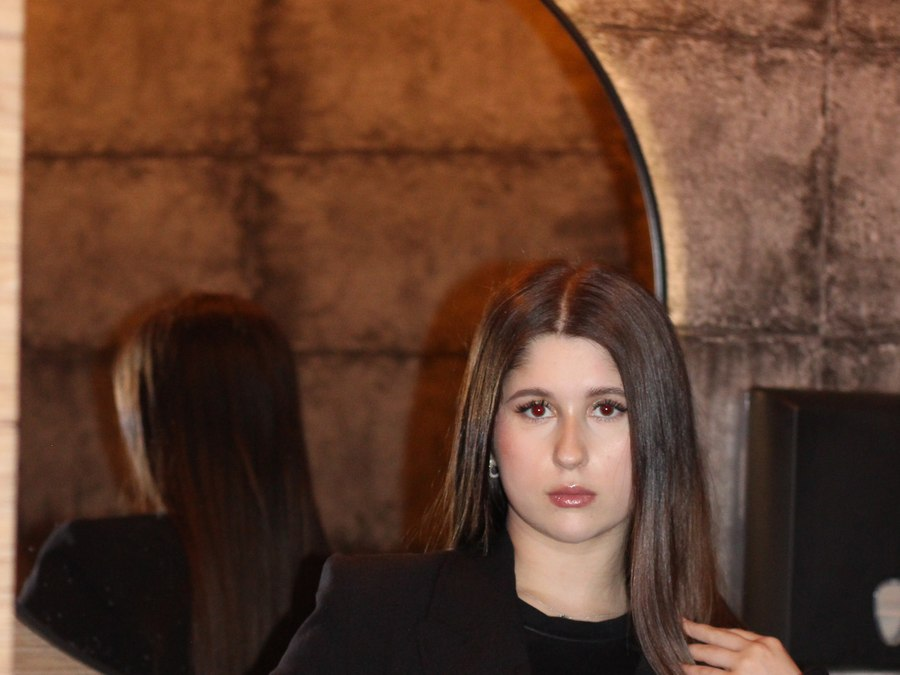
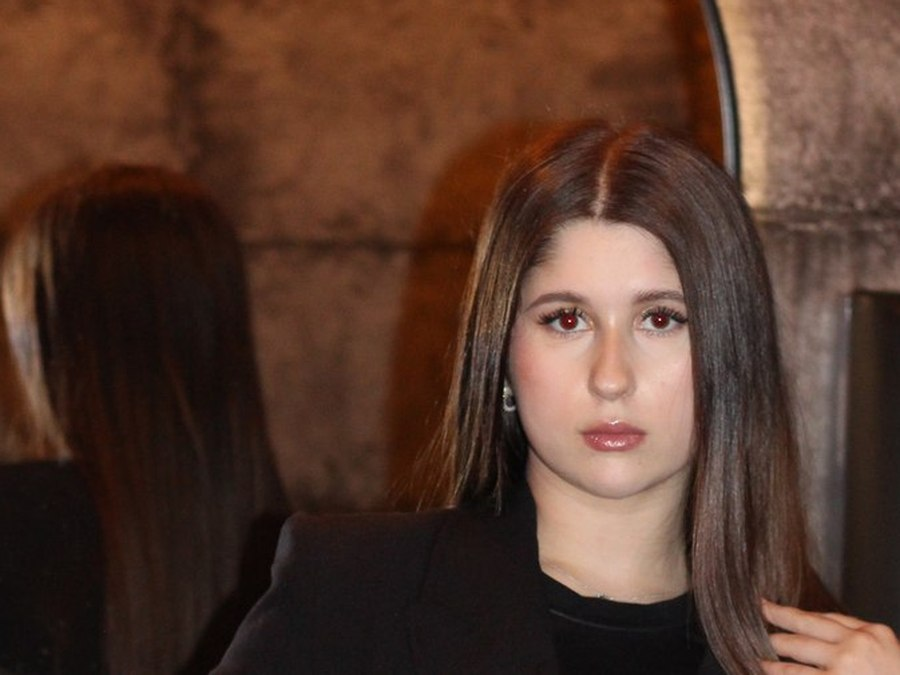
Case cards: real TikTok links, even text length, crop Vika higher
- Add real profile links for all three girls' "Open profile" buttons
  (Ruteniia, Liza, Vika)
- Remove the flavor tag badges (New opportunities / Steady growth /
  A bright story) overlaid on the photos, per request
- Trim Rutenia's description down to match the other two cards'
  text length
- Re-crop Vika's photo higher so her face isn't lost in the empty
  archway space above her head

diff --git a/index.html b/index.html
@@ -423,13 +423,6 @@
   }
   .case-photo{position:relative;width:100%;aspect-ratio:4/3;overflow:hidden;flex-shrink:0;background:var(--bg-1);}
   .case-photo img{width:100%;height:100%;object-fit:cover;object-position:50% 24%;display:block;}
-  .case-tag{
-    position:absolute;top:14px;right:14px;z-index:2;
-    display:inline-flex;align-items:center;gap:6px;padding:6px 12px;border-radius:100px;
-    background:rgba(20,12,20,.55);backdrop-filter:blur(6px);border:1px solid rgba(255,255,255,.18);
-    font-size:0.7rem;font-weight:600;letter-spacing:.04em;text-transform:uppercase;color:#fff;
-  }
-  .case-tag svg{width:13px;height:13px;color:var(--magenta);flex-shrink:0;}
   .case-body{display:flex;flex-direction:column;flex:1;padding:22px;}
   .case-name{font-family:'Unbounded',sans-serif;font-size:1.12rem;font-weight:700;color:var(--text-0);margin-bottom:12px;}
   .case-stats{display:flex;flex-wrap:wrap;gap:8px;margin-bottom:16px;}
@@ -750,21 +743,19 @@
         <div class="case-card" id="caseCard1">
           <div class="case-photo">
             <img src="assets/case-rutenia.jpg" alt="Рутенія">
-            <span class="case-tag"><svg viewBox="0 0 24 24" fill="currentColor" aria-hidden="true"><path d="M12 2c.9 3.6 2.1 4.8 5.7 5.7-3.6.9-4.8 2.1-5.7 5.7-.9-3.6-2.1-4.8-5.7-5.7C9.9 6.8 11.1 5.6 12 2Z"/></svg><span data-i18n="case_flavor_1">Нові можливості</span></span>
           </div>
           <div class="case-body">
             <h3 class="case-name" data-i18n="case_name_1">Рутенія</h3>
             <div class="case-stats">
               <span class="case-stat is-earn"><svg viewBox="0 0 24 24" fill="none" stroke="currentColor" stroke-width="1.5" aria-hidden="true"><circle cx="12" cy="12" r="10"/><path d="M16 8h-6a2 2 0 1 0 0 4h4a2 2 0 1 1 0 4H8"/><path d="M12 18V6"/></svg><span data-i18n="case_tag_1">$5000+/міс</span></span>
             </div>
-            <p class="case-detail" data-i18n="case_desc_1">Ще у квітні ми знайшли одна одну на сайті пошуку роботи. 👀 Вона шукала вакансію баристи, а ми — дівчат, у яких горять очі пробувати щось нове.<br><br>Вже у травні її результат — $5000+ 💸<br><br>Це не про «легкі гроші» чи випадковість. Це про ефіри, стабільність, особистий розвиток, роботу над помилками, емоції, спілкування з аудиторією та підтримку команди поруч. 🤍</p>
-            <a class="case-profile-btn" href="#" target="_blank" rel="noopener"><svg viewBox="0 0 24 24" fill="currentColor" aria-hidden="true"><path d="M16.7 3h-3.3v12.4a2.9 2.9 0 1 1-2.1-2.8v-3.3a6.2 6.2 0 1 0 5.4 6.2V9.6a7.6 7.6 0 0 0 4.3 1.3V7.6a4.3 4.3 0 0 1-4.3-4.3Z"/></svg><span data-i18n="case_profile_btn">Відкрити профіль</span></a>
+            <p class="case-detail" data-i18n="case_desc_1">Ще у квітні ми знайшли одна одну на сайті пошуку роботи. 👀 Вона шукала вакансію баристи, а ми — дівчат, у яких горять очі пробувати щось нове.<br><br>Вже у травні її результат — $5000+ 💸 Це про ефіри, стабільність і підтримку команди поруч. 🤍</p>
+            <a class="case-profile-btn" href="https://www.tiktok.com/@ruteniiaxo" target="_blank" rel="noopener"><svg viewBox="0 0 24 24" fill="currentColor" aria-hidden="true"><path d="M16.7 3h-3.3v12.4a2.9 2.9 0 1 1-2.1-2.8v-3.3a6.2 6.2 0 1 0 5.4 6.2V9.6a7.6 7.6 0 0 0 4.3 1.3V7.6a4.3 4.3 0 0 1-4.3-4.3Z"/></svg><span data-i18n="case_profile_btn">Відкрити профіль</span></a>
           </div>
         </div>
         <div class="case-card" id="caseCard2">
           <div class="case-photo">
             <img src="assets/case-liza.jpg" alt="Ліза">
-            <span class="case-tag"><svg viewBox="0 0 24 24" fill="currentColor" aria-hidden="true"><path d="M12 2c.9 3.6 2.1 4.8 5.7 5.7-3.6.9-4.8 2.1-5.7 5.7-.9-3.6-2.1-4.8-5.7-5.7C9.9 6.8 11.1 5.6 12 2Z"/></svg><span data-i18n="case_flavor_2">Стабільний ріст</span></span>
           </div>
           <div class="case-body">
             <h3 class="case-name" data-i18n="case_name_2">Ліза</h3>
@@ -772,13 +763,12 @@
               <span class="case-stat is-earn"><svg viewBox="0 0 24 24" fill="none" stroke="currentColor" stroke-width="1.5" aria-hidden="true"><circle cx="12" cy="12" r="10"/><path d="M16 8h-6a2 2 0 1 0 0 4h4a2 2 0 1 1 0 4H8"/><path d="M12 18V6"/></svg><span data-i18n="case_tag_2">$1500/міс</span></span>
             </div>
             <p class="case-detail" data-i18n="case_desc_2">Ліза почала стримити близько місяця тому. 📈 Перший гарний результат прийшов буквально за перший тиждень.<br><br>Завжди слухає свого ментора й виконує всі рекомендації — і це видно за результатом: $1500 заробітку вже в перший місяць.</p>
-            <a class="case-profile-btn" href="#" target="_blank" rel="noopener"><svg viewBox="0 0 24 24" fill="currentColor" aria-hidden="true"><path d="M16.7 3h-3.3v12.4a2.9 2.9 0 1 1-2.1-2.8v-3.3a6.2 6.2 0 1 0 5.4 6.2V9.6a7.6 7.6 0 0 0 4.3 1.3V7.6a4.3 4.3 0 0 1-4.3-4.3Z"/></svg><span data-i18n="case_profile_btn">Відкрити профіль</span></a>
+            <a class="case-profile-btn" href="https://www.tiktok.com/@neeligeo.liza" target="_blank" rel="noopener"><svg viewBox="0 0 24 24" fill="currentColor" aria-hidden="true"><path d="M16.7 3h-3.3v12.4a2.9 2.9 0 1 1-2.1-2.8v-3.3a6.2 6.2 0 1 0 5.4 6.2V9.6a7.6 7.6 0 0 0 4.3 1.3V7.6a4.3 4.3 0 0 1-4.3-4.3Z"/></svg><span data-i18n="case_profile_btn">Відкрити профіль</span></a>
           </div>
         </div>
         <div class="case-card" id="caseCard3">
           <div class="case-photo">
             <img src="assets/case-vika.jpg" alt="Віка">
-            <span class="case-tag"><svg viewBox="0 0 24 24" fill="currentColor" aria-hidden="true"><path d="M12 2c.9 3.6 2.1 4.8 5.7 5.7-3.6.9-4.8 2.1-5.7 5.7-.9-3.6-2.1-4.8-5.7-5.7C9.9 6.8 11.1 5.6 12 2Z"/></svg><span data-i18n="case_flavor_3">Яскрава історія</span></span>
           </div>
           <div class="case-body">
             <h3 class="case-name" data-i18n="case_name_3">Віка</h3>
@@ -786,7 +776,7 @@
               <span class="case-stat is-earn"><svg viewBox="0 0 24 24" fill="none" stroke="currentColor" stroke-width="1.5" aria-hidden="true"><circle cx="12" cy="12" r="10"/><path d="M16 8h-6a2 2 0 1 0 0 4h4a2 2 0 1 1 0 4H8"/><path d="M12 18V6"/></svg><span data-i18n="case_tag_3">$2000/міс</span></span>
             </div>
             <p class="case-detail" data-i18n="case_desc_3">Віка з Ірландії — одразу яскраво включилась у процес: дуже позитивна і по-справжньому любить стримити. 🌟<br><br>Ефіри змінили її життя: за перший місяць заробила $2000, а зараз активно веде ефіри й постійно покращує їх якість разом із нами.</p>
-            <a class="case-profile-btn" href="#" target="_blank" rel="noopener"><svg viewBox="0 0 24 24" fill="currentColor" aria-hidden="true"><path d="M16.7 3h-3.3v12.4a2.9 2.9 0 1 1-2.1-2.8v-3.3a6.2 6.2 0 1 0 5.4 6.2V9.6a7.6 7.6 0 0 0 4.3 1.3V7.6a4.3 4.3 0 0 1-4.3-4.3Z"/></svg><span data-i18n="case_profile_btn">Відкрити профіль</span></a>
+            <a class="case-profile-btn" href="https://www.tiktok.com/@baby.vikky_" target="_blank" rel="noopener"><svg viewBox="0 0 24 24" fill="currentColor" aria-hidden="true"><path d="M16.7 3h-3.3v12.4a2.9 2.9 0 1 1-2.1-2.8v-3.3a6.2 6.2 0 1 0 5.4 6.2V9.6a7.6 7.6 0 0 0 4.3 1.3V7.6a4.3 4.3 0 0 1-4.3-4.3Z"/></svg><span data-i18n="case_profile_btn">Відкрити профіль</span></a>
           </div>
         </div>
       </div>
@@ -1116,15 +1106,12 @@
       cases_intro: "Реальні результати дівчат усередині команди ALive.",
       cases_note: "Більше, ніж робота ♡",
       case_profile_btn: "Відкрити профіль",
-      case_flavor_1: "Нові можливості",
       case_tag_1: "$5000+/міс",
       case_name_1: "Рутенія",
-      case_desc_1: "Ще у квітні ми знайшли одна одну на сайті пошуку роботи. 👀 Вона шукала вакансію баристи, а ми — дівчат, у яких горять очі пробувати щось нове.<br><br>Вже у травні її результат — $5000+ 💸<br><br>Це не про «легкі гроші» чи випадковість. Це про ефіри, стабільність, особистий розвиток, роботу над помилками, емоції, спілкування з аудиторією та підтримку команди поруч. 🤍",
-      case_flavor_2: "Стабільний ріст",
+      case_desc_1: "Ще у квітні ми знайшли одна одну на сайті пошуку роботи. 👀 Вона шукала вакансію баристи, а ми — дівчат, у яких горять очі пробувати щось нове.<br><br>Вже у травні її результат — $5000+ 💸 Це про ефіри, стабільність і підтримку команди поруч. 🤍",
       case_tag_2: "$1500/міс",
       case_name_2: "Ліза",
       case_desc_2: "Ліза почала стримити близько місяця тому. 📈 Перший гарний результат прийшов буквально за перший тиждень.<br><br>Завжди слухає свого ментора й виконує всі рекомендації — і це видно за результатом: $1500 заробітку вже в перший місяць.",
-      case_flavor_3: "Яскрава історія",
       case_tag_3: "$2000/міс",
       case_name_3: "Віка",
       case_desc_3: "Віка з Ірландії — одразу яскраво включилась у процес: дуже позитивна і по-справжньому любить стримити. 🌟<br><br>Ефіри змінили її життя: за перший місяць заробила $2000, а зараз активно веде ефіри й постійно покращує їх якість разом із нами.",
@@ -1229,15 +1216,12 @@
       cases_intro: "Real results from girls inside the ALive team.",
       cases_note: "More than just a job ♡",
       case_profile_btn: "Open profile",
-      case_flavor_1: "New opportunities",
       case_tag_1: "$5000+/mo",
       case_name_1: "Ruteniia",
-      case_desc_1: "We found each other back in April on a job-search site. 👀 She was looking for a barista job, and we were looking for girls with fire in their eyes, ready to try something new.<br><br>By May, her result — $5000+ 💸<br><br>This isn't about \"easy money\" or luck. It's about streams, consistency, personal growth, fixing mistakes, emotions, connecting with an audience, and the support of a team right beside you. 🤍",
-      case_flavor_2: "Steady growth",
+      case_desc_1: "We found each other back in April on a job-search site. 👀 She was looking for a barista job, and we were looking for girls with fire in their eyes, ready to try something new.<br><br>By May, her result — $5000+ 💸 It's about streams, consistency, and the support of a team right beside you. 🤍",
       case_tag_2: "$1500/mo",
       case_name_2: "Liza",
       case_desc_2: "Liza started streaming about a month ago. 📈 Her first solid result came within the very first week.<br><br>She always listens to her mentor and follows every recommendation — and it shows: $1500 earned in her very first month.",
-      case_flavor_3: "A bright story",
       case_tag_3: "$2000/mo",
       case_name_3: "Vika",
       case_desc_3: "Vika, from Ireland, jumped in right away — bright, positive, and genuinely loves streaming. 🌟<br><br>Streaming changed her life: she earned $2000 in her first month, and now she streams regularly, constantly improving with our support.",
